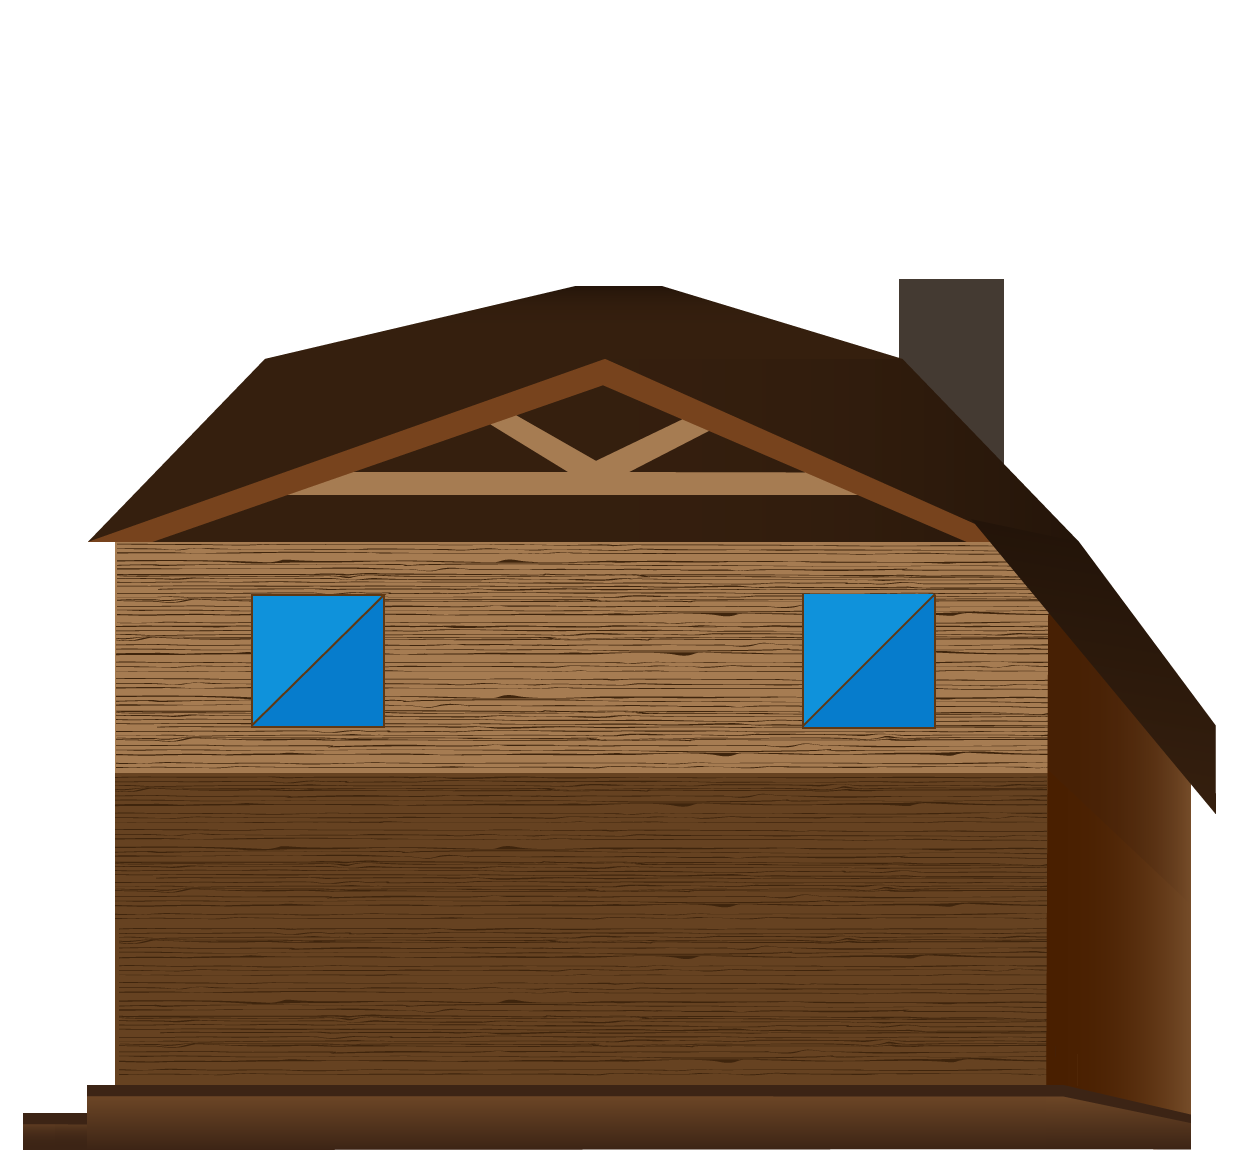
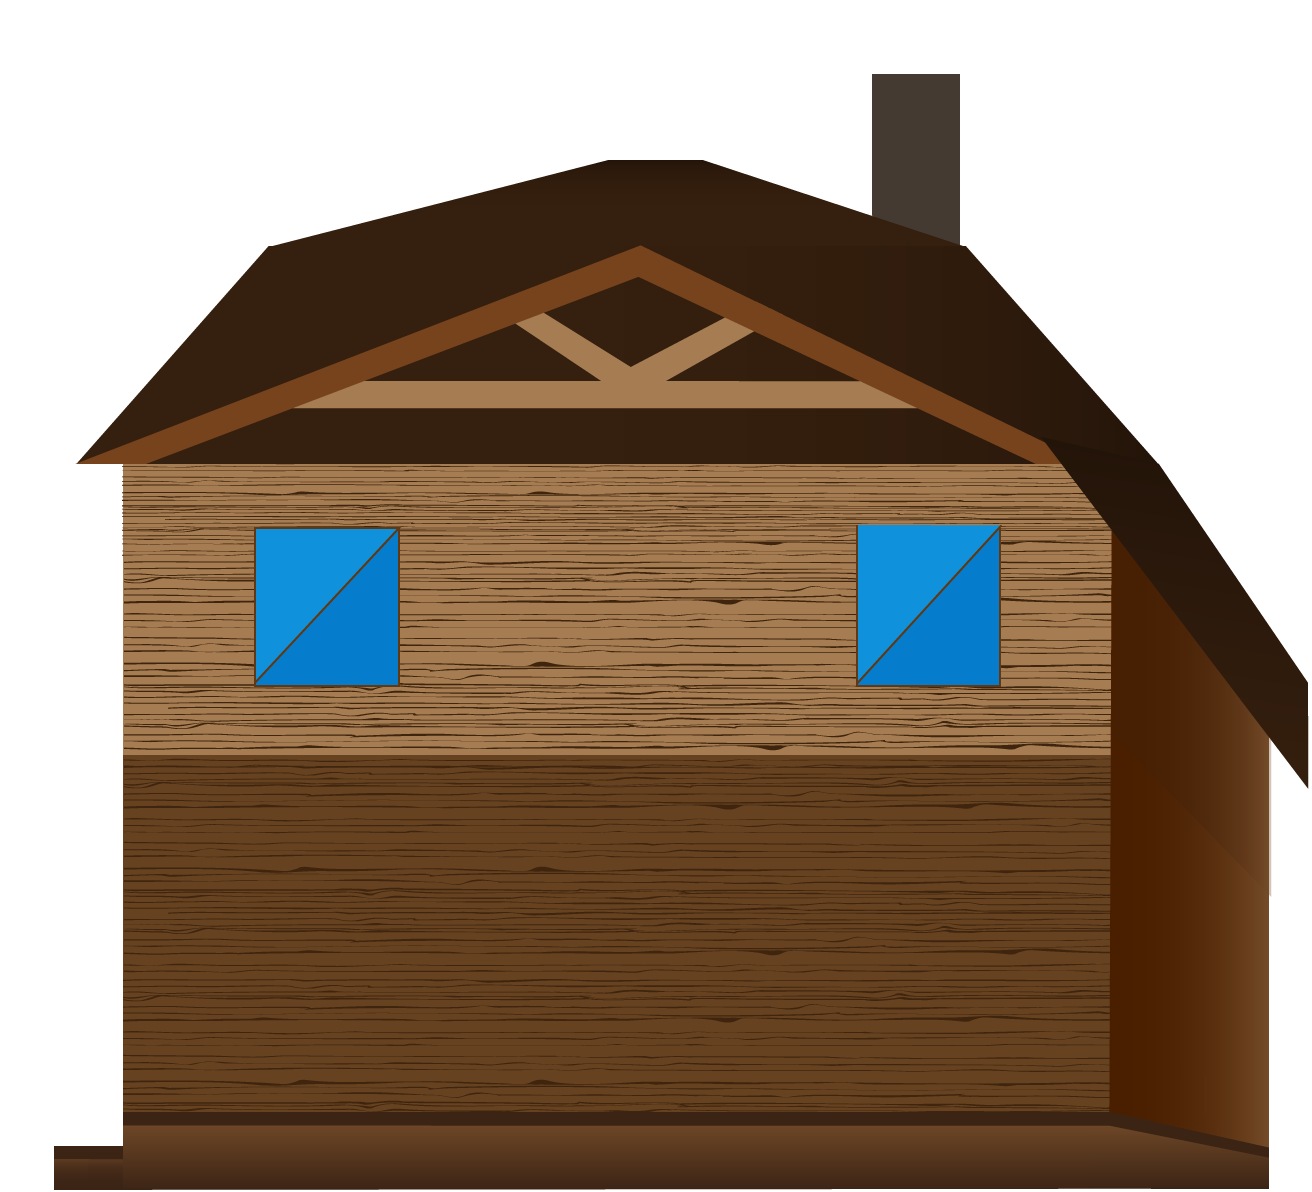
Refitted house
should align properly now.

diff --git a/js/src/Levels/lvl3/layer-1.js b/js/src/Levels/lvl3/layer-1.js
@@ -14,7 +14,7 @@ define([], function () {
         this.game.add.sprite(33*tile, 22*tile, 'tree_group');
 
         // Kevin's house sprite
-        this.game.add.sprite(46.5*tile, -9*tile, 'kevin_house');
+         this.game.add.sprite(46.2*tile, -9*tile, 'kevin_house');
 
 
     }
